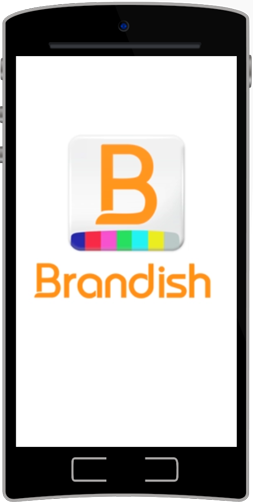
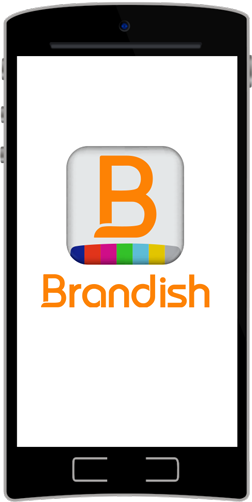
BRAND-13 Replacing phone asset, widening display div

diff --git a/css/style.css b/css/style.css
@@ -208,7 +208,7 @@ a:hover, a:focus a:active {
     }
     .peek{ /* setting up for effect */
         height: 176px;
-        width: 246px;
+        width: 252px;
         background: transparent url('../images/phone.png') 0px 0px no-repeat;
         position: absolute;
         z-index: 1;
